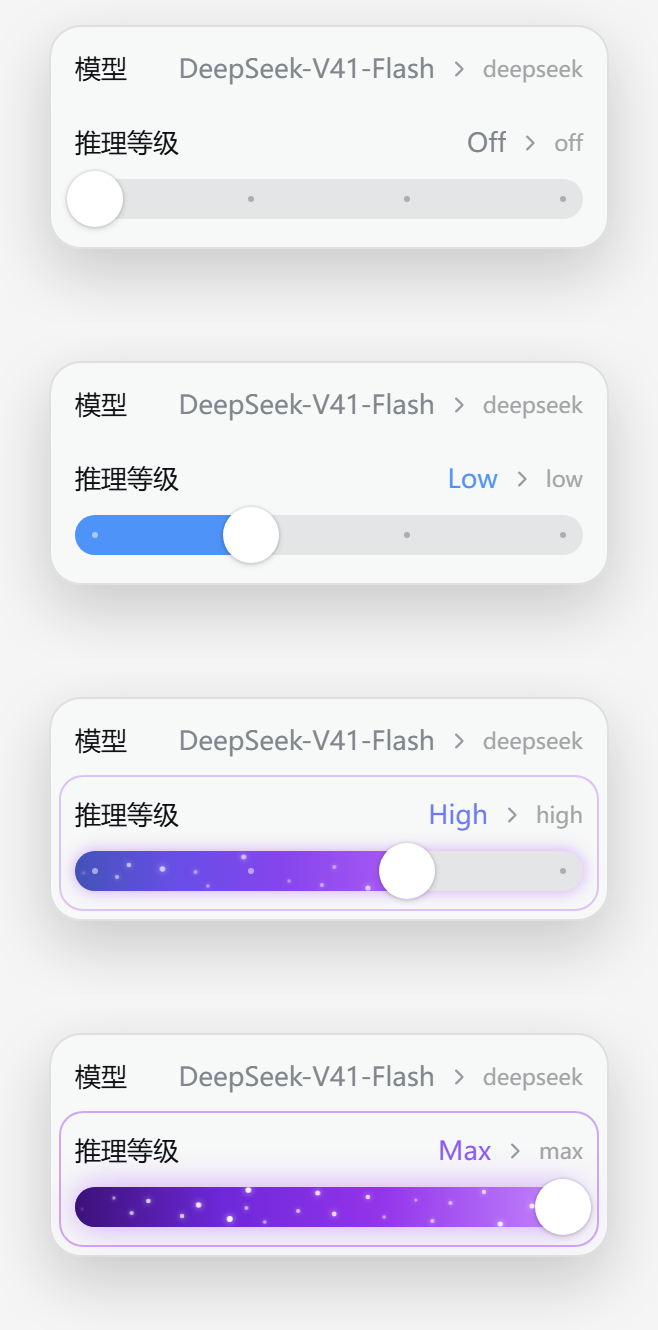
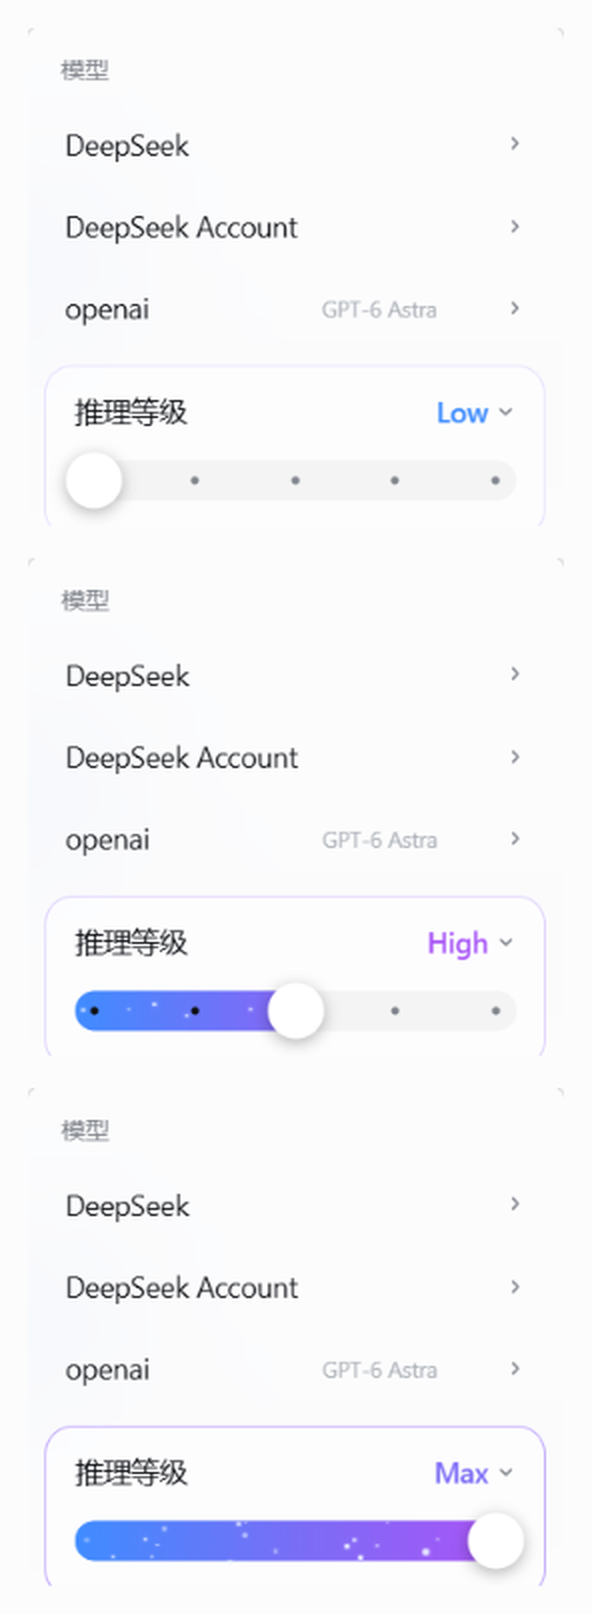
预览图换成真机截图（浅/深各一张）
原来的两张是"无头渲染静态预览页"拼的，边框/圆角/模糊/阴影与真机不一致。现在换成
**在 DSH Desktop 里逐个档位截下来的真图**（用户提供的 6 张：浅色 Low/High/Max + 深色 Low/High/Max）：

- 浅色：按坐标网格量出的固定窗口裁掉面板本体（收起态按钮在窗口之外），三行 268×249；
- 深色：那三张是紧贴面板裁的，统一取顶部 272 行即面板本体；
- 拼接底色取"面板与收起态按钮之间那条缝"的真实页面色；整体 2x 呈现。
- README 图注同步改成"三档效果：Low / High / Max"，并注明是**真机截图**（此前写的是四档）。

顺带清掉临时用过的抓屏脚本（本机窗口比屏幕大，PrintWindow 抓不到输入区，已不需要）。
无代码改动：911 项断言仍全绿。

diff --git a/README.md b/README.md
@@ -11,10 +11,11 @@
 ![license](https://img.shields.io/badge/license-MIT-green?style=flat-square)
 ![dsh](https://img.shields.io/badge/DSH-0.2.0--rc.2-5b6ef5?style=flat-square)
 
-![四档效果：Off / Low / High / Max（深色主题）](preview/value-color-dark.png)
+![三档效果：Low / High / Max（深色主题，真机截图）](preview/value-color-dark.png)
 
 浅色主题同样可读（档位文字对比度算过：白底 4.23:1、深色底 4.02:1）：
 [`preview/value-color-light.png`](preview/value-color-light.png)。
+两张图都是**真机截图**（在 DSH Desktop 里逐个档位截下来再拼接），不是渲染稿。
 
 ---
 
